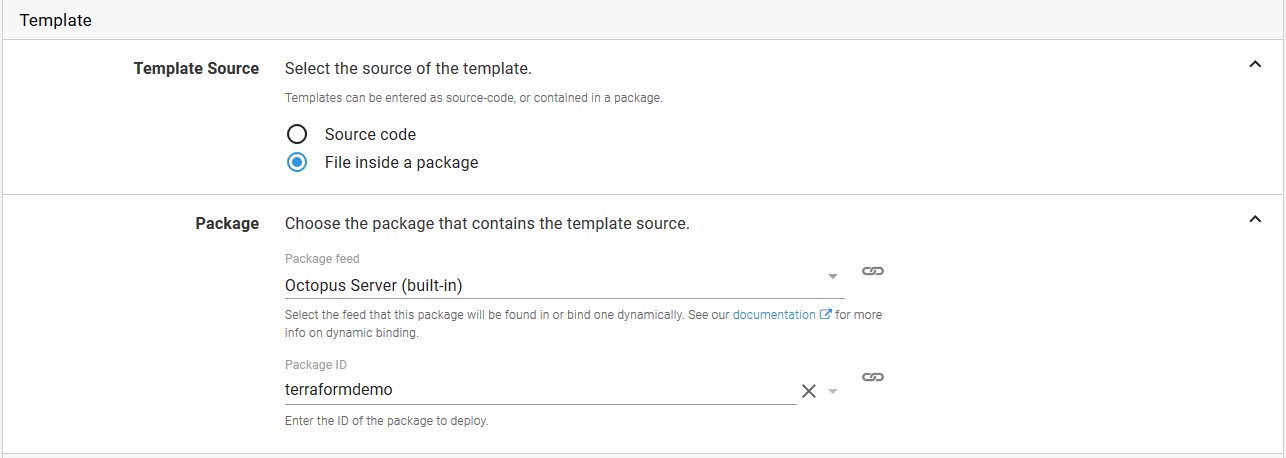
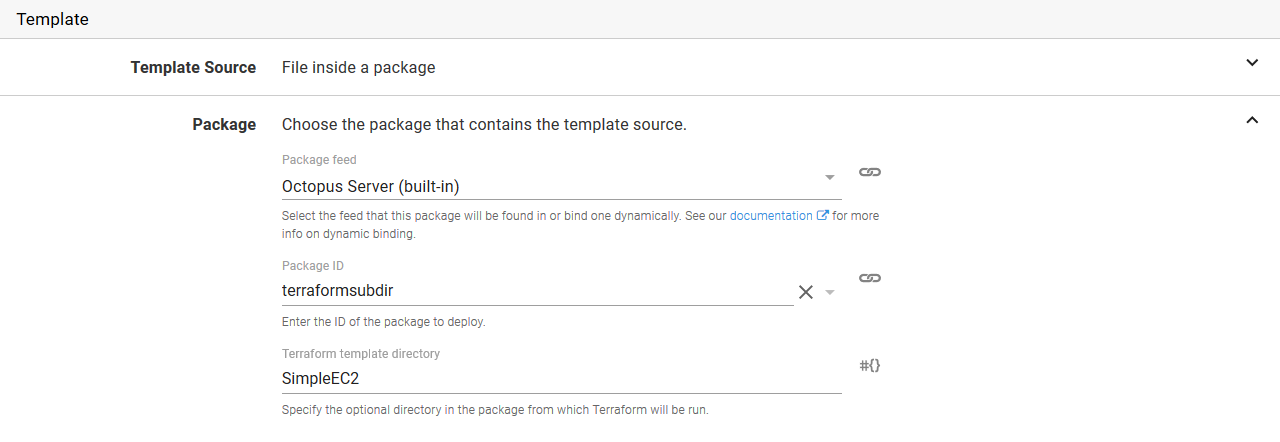
Updated docs to reference the subdirectory

diff --git a/docs/deploying-applications/terraform-deployments/apply-terraform/index_content_[2018.3,).partial.md b/docs/deploying-applications/terraform-deployments/apply-terraform/index_content_[2018.3,).partial.md
@@ -98,6 +98,8 @@ The second option is to use the files contained in a package. This is done by se
 
 The contents of the package will be extracted, and Terraform will automatically detect the files to use. See the [Terraform documentation](https://www.terraform.io/docs/configuration/load.html) for more details on the file load order.
 
+You can optional run Terraform from a subdirectory in the package by specifying the path in the `Terraform template directory` field. If your package has the Terraform templates in the root folder, leave this field blank.
+
 :::hint
 Given that Terraform templates and variable files are plain text, you may find it convenient to use the GitHub Repository Feed to provide the packages used by Terraform steps. Using GitHub releases means you do not have to manually create and upload a package, and can instead tag a release and download it directly from GitHub.
 :::

diff --git a/docs/deploying-applications/terraform-deployments/destroy-terraform/index_content_[2018.3,).partial.md b/docs/deploying-applications/terraform-deployments/destroy-terraform/index_content_[2018.3,).partial.md
@@ -98,6 +98,8 @@ The second option is to use the files contained in a package. This is done by se
 
 The contents of the package will be extracted, and Terraform will automatically detect the files to use. See the [Terraform documentation](https://www.terraform.io/docs/configuration/load.html) for more details on the file load order.
 
+You can optional run Terraform from a subdirectory in the package by specifying the path in the `Terraform template directory` field. If your package has the Terraform templates in the root folder, leave this field blank.
+
 :::hint
 Given that Terraform templates and variable files are plain text, you may find it convenient to use the GitHub Repository Feed to provide the packages used by Terraform steps. Using GitHub releases means you do not have to manually create and upload a package, and can instead tag a release and download it directly from GitHub.
 :::
